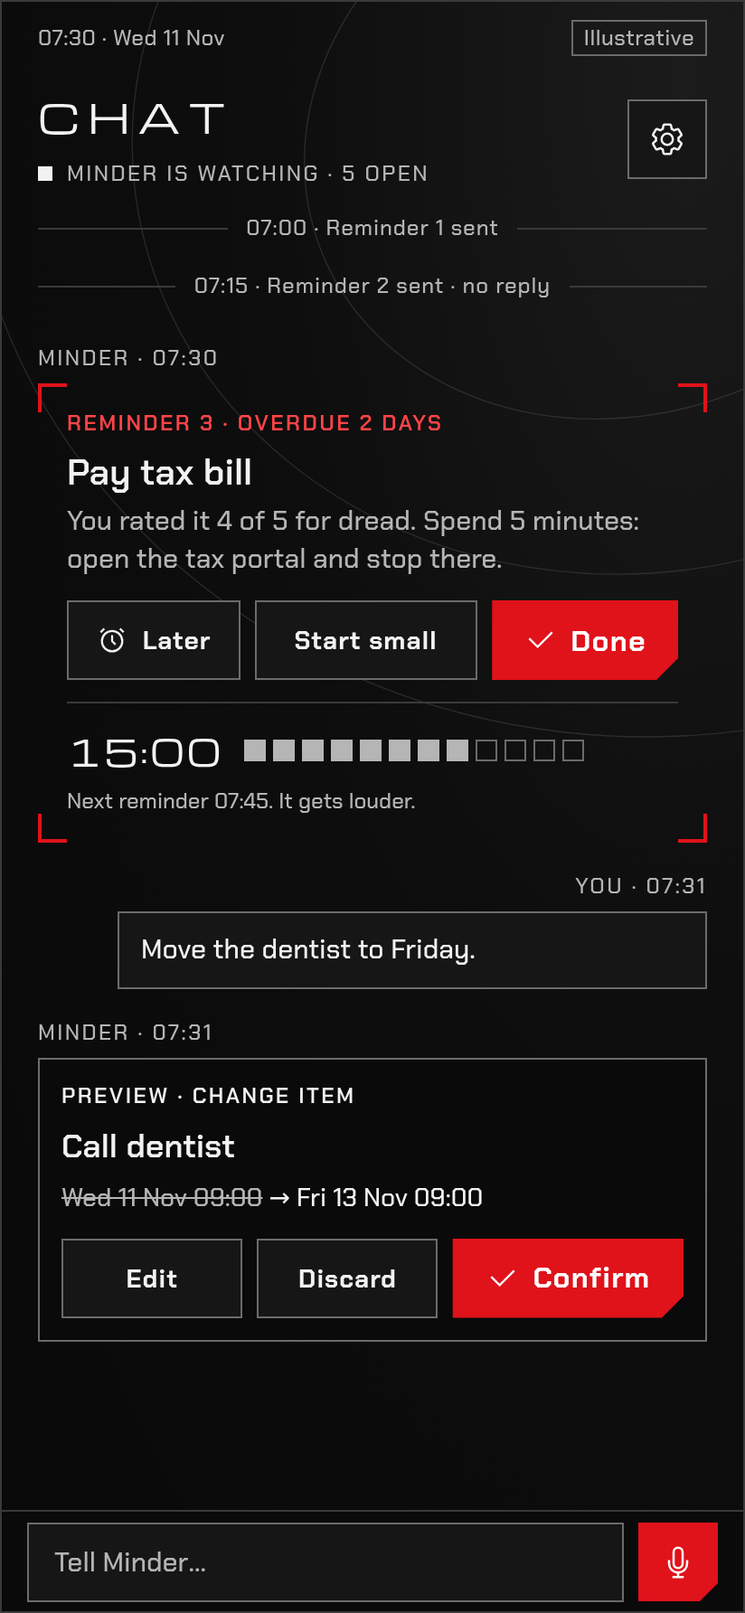
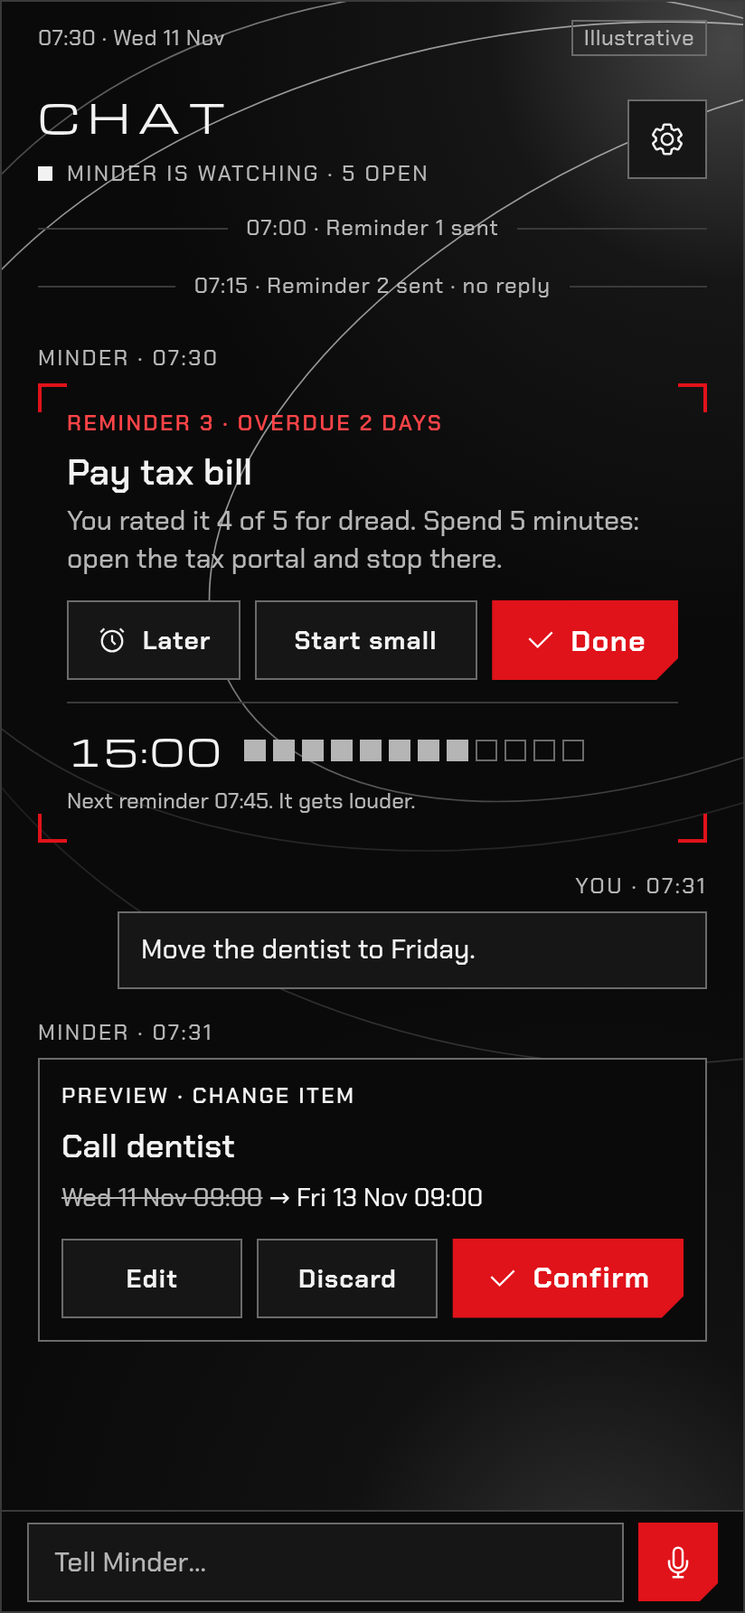
Restore orbital lighting and varied tracks for APK 0.4.1

Changed region(s): [[0.8192, 0.0, 1.0, 0.0925], [0.7282, 0.9249, 0.8799, 0.9557]]

diff --git a/brand/index.html b/brand/index.html
@@ -310,15 +310,13 @@ footer{padding:28px 20px 28px calc(var(--col) + 24px);font-size:12px;letter-spac
 .calendar-example-wrap{max-width:100%;overflow-x:auto;margin-top:24px}
 .calendar-caption{font-size:13px;color:var(--muted);margin:12px 0 0}
 
-
-/* Orbital surfaces: static halo, three slow vector ellipses. */
-.orbit-surface{position:relative;overflow:hidden;background-color:var(--void);background-image:radial-gradient(ellipse at 92% 5%,rgba(242,242,242,.075),rgba(242,242,242,.015) 43%,transparent 90%)}
+/* Orbital surfaces: static edge lighting, independently centred vector ellipses. */
+.orbit-surface{position:relative;overflow:hidden;background-color:var(--void);background-image:radial-gradient(circle at 98% 2.5%,rgba(242,242,242,.26),rgba(242,242,242,.052) 132px,transparent 330px),radial-gradient(circle at 80% 98%,rgba(242,242,242,.16),rgba(242,242,242,.032) 140px,transparent 350px)}
 .orbit-surface > :not(.orbit-lines){position:relative;z-index:1}
-.orbit-surface > .orbit-lines{position:absolute;inset:0;width:100%;height:892px;pointer-events:none;z-index:0;fill:none;stroke:rgba(242,242,242,.12);stroke-width:.7}
-.orbit-lines g{transform-box:view-box;transform-origin:350px 160px;animation:orbit-drift 180s linear infinite}
-.orbit-chat g{transform-origin:350px 71px}
+.orbit-surface > .orbit-lines{position:absolute;inset:0;width:100%;height:892px;pointer-events:none;z-index:0;fill:none;stroke-width:.85}
+.orbit-lines ellipse{transform-box:fill-box;transform-origin:center;animation:orbit-drift 180s linear infinite}
 @keyframes orbit-drift{to{rotate:360deg}}
-@media(prefers-reduced-motion:reduce){.orbit-lines g{animation:none}}
+@media(prefers-reduced-motion:reduce){.orbit-lines ellipse{animation:none}}
 </style>
 </head>
 <body>
@@ -524,8 +522,8 @@ footer{padding:28px 20px 28px calc(var(--col) + 24px);font-size:12px;letter-spac
    <tr><td>32 px</td><td>Major sections: screen header, month navigation and agenda.</td></tr>
   </table></div>
   <h3>Orbital background</h3>
-  <p>Three fine neutral ellipses give each screen its own composition. Calendar uses broad orbits; Chat uses tighter arcs near the header.</p>
-  <p>Keep the halo static and rotate the lines once every 180 seconds. Cards stay opaque. Decoration does not use Signal red.</p>
+  <p>Three neutral ellipses have different centres, sizes and tilts. Edge highlights fade through the middle to keep content clear. Calendar uses broad orbits; Chat uses tighter arcs near the header.</p>
+  <p>Keep the upper-right and lower-edge lighting static. Rotate each ellipse about its own centre once every 180 seconds. Cards stay opaque. Decoration does not use Signal red.</p>
   <p>Pause motion on hidden screens and when the app is in the background. Reduced motion shows a still composition.</p>
   <h3>Calendar</h3>
   <p>Give the month a 24 px heading and the year its own 14 px line. Group the two arrows on the right.</p>
@@ -534,7 +532,7 @@ footer{padding:28px 20px 28px calc(var(--col) + 24px);font-size:12px;letter-spac
   <p>Give agenda cards 20 px padding, an 18 px title and 16 px between cards. Use Line for their outlines.</p>
   <p>Keep the calendar column at most 520 px wide. Use 24 px side gutters from 360 px upward.</p>
   <p>On narrower screens, reduce gutters to preserve 44 px day targets. Let the page scroll with larger text or shorter screens.</p>
-  <div class="calendar-example-wrap"><div class="calendar-layout orbit-surface" aria-label="Calendar spacing example"><svg class="orbit-lines orbit-calendar" viewBox="0 0 412 892" preserveAspectRatio="none" aria-hidden="true"><g><ellipse cx="350" cy="160" rx="309" ry="290" transform="rotate(-20 350 160)"/><ellipse cx="350" cy="160" rx="402" ry="379" transform="rotate(-6.9 350 160)"/><ellipse cx="350" cy="160" rx="494" ry="468" transform="rotate(6.3 350 160)"/></g></svg>
+  <div class="calendar-example-wrap"><div class="calendar-layout orbit-surface" aria-label="Calendar spacing example"><svg class="orbit-lines orbit-calendar" viewBox="0 0 412 892" preserveAspectRatio="none" aria-hidden="true"><defs><linearGradient id="orbit-light-calendar" x1="0" y1="0" x2="0" y2="892" gradientUnits="userSpaceOnUse"><stop offset="0" stop-color="#f2f2f2" stop-opacity=".60"/><stop offset=".28" stop-color="#f2f2f2" stop-opacity=".16"/><stop offset=".60" stop-color="#f2f2f2" stop-opacity=".08"/><stop offset="1" stop-color="#f2f2f2" stop-opacity=".42"/></linearGradient></defs><g stroke="url(#orbit-light-calendar)"><ellipse cx="329.60" cy="178.40" rx="391.40" ry="258.68" transform="rotate(-20.05 329.60 178.40)"/><ellipse cx="259.56" cy="383.56" rx="391.40" ry="374.64" transform="rotate(-6.88 259.56 383.56)"/><ellipse cx="284.28" cy="499.52" rx="412.00" ry="419.24" transform="rotate(6.30 284.28 499.52)"/></g></svg>
  <div class="cal-header"><div class="cal-title">CALENDAR</div><span class="cal-control" aria-label="Chat"><svg viewBox="0 0 24 24" aria-hidden="true"><path d="M4 4h16v13H9l-5 4V4Z"/></svg></span></div>
  <div class="cal-month-bar"><div><div class="cal-month">November</div><div class="cal-year">2026</div></div><div class="cal-arrows"><span class="cal-control" aria-label="Previous month"><svg viewBox="0 0 24 24" aria-hidden="true"><path d="m14 6-6 6 6 6"/></svg></span><span class="cal-control" aria-label="Next month"><svg viewBox="0 0 24 24" aria-hidden="true"><path d="m10 6 6 6-6 6"/></svg></span></div></div>
  <div class="cal-weekdays"><span>MON</span><span>TUE</span><span>WED</span><span>THU</span><span>FRI</span><span>SAT</span><span>SUN</span></div>

diff --git a/app/lib/ui/orbital_background.dart b/app/lib/ui/orbital_background.dart
@@ -1,4 +1,6 @@
 import 'dart:math' as math;
+import 'dart:typed_data';
+import 'dart:ui' as ui;
 
 import 'package:flutter/material.dart';
 
@@ -83,9 +85,7 @@ class _OrbitalBackgroundState extends State<OrbitalBackground>
                 fit: StackFit.expand,
                 children: [
                   RepaintBoundary(
-                    child: CustomPaint(
-                      painter: _HaloPainter(scene: widget.scene),
-                    ),
+                    child: CustomPaint(painter: const _HaloPainter()),
                   ),
                   RepaintBoundary(
                     child: CustomPaint(
@@ -108,29 +108,37 @@ class _OrbitalBackgroundState extends State<OrbitalBackground>
 }
 
 class _HaloPainter extends CustomPainter {
-  const _HaloPainter({required this.scene});
-  final OrbitScene scene;
+  const _HaloPainter();
 
   @override
   void paint(Canvas canvas, Size size) {
     final rect = Offset.zero & size;
-    final halo = RadialGradient(
-      center: scene == OrbitScene.calendar
-          ? const Alignment(.85, -.9)
-          : const Alignment(1, -.7),
-      radius: .95,
-      colors: [
-        Tokens.text.withValues(alpha: .075),
-        Tokens.text.withValues(alpha: .015),
-        Colors.transparent,
-      ],
-      stops: const [0, .45, 1],
-    );
-    canvas.drawRect(rect, Paint()..shader = halo.createShader(rect));
+    final width = math.min(size.width, 760.0);
+    final top = Offset(size.width / 2 + width * .48, size.height * .025);
+    final bottom = Offset(size.width / 2 + width * .30, size.height * .98);
+    for (final light in [
+      (center: top, radius: width * .80, alpha: .26),
+      (center: bottom, radius: width * .85, alpha: .16),
+    ]) {
+      canvas.drawRect(
+        rect,
+        Paint()
+          ..shader = ui.Gradient.radial(
+            light.center,
+            light.radius,
+            [
+              Tokens.text.withValues(alpha: light.alpha),
+              Tokens.text.withValues(alpha: light.alpha * .20),
+              Colors.transparent,
+            ],
+            [0, .4, 1],
+          ),
+      );
+    }
   }
 
   @override
-  bool shouldRepaint(_HaloPainter oldDelegate) => oldDelegate.scene != scene;
+  bool shouldRepaint(_HaloPainter oldDelegate) => false;
 }
 
 class _OrbitPainter extends CustomPainter {
@@ -143,27 +151,67 @@ class _OrbitPainter extends CustomPainter {
   void paint(Canvas canvas, Size size) {
     final calendar = scene == OrbitScene.calendar;
     final width = math.min(size.width, 760.0);
-    final center = Offset(
-      size.width / 2 + width * .35,
-      size.height * (calendar ? .18 : .08),
-    );
+    final orbits = calendar
+        ? const [
+            (x: .80, y: .20, width: 1.9, height: .58, tilt: -.35),
+            (x: .63, y: .43, width: 1.9, height: .84, tilt: -.12),
+            (x: .69, y: .56, width: 2.0, height: .94, tilt: .11),
+          ]
+        : const [
+            (x: .95, y: .07, width: 1.5, height: .38, tilt: -.45),
+            (x: .80, y: .20, width: 1.8, height: .50, tilt: -.18),
+            (x: .62, y: .37, width: 1.9, height: .66, tilt: .18),
+          ];
     final paint = Paint()
       ..style = PaintingStyle.stroke
-      ..strokeWidth = .7
-      ..color = Tokens.text.withValues(alpha: .12);
-    for (var i = 0; i < 3; i++) {
-      canvas.save();
-      canvas.translate(center.dx, center.dy);
-      canvas.rotate(-.35 + i * .23 + motion.value * math.pi * 2);
-      canvas.drawOval(
-        Rect.fromCenter(
-          center: Offset.zero,
-          width: width * ((calendar ? 1.5 : .9) + i * .45),
-          height: size.height * ((calendar ? .65 : .35) + i * .2),
+      ..strokeWidth = .85
+      ..shader = LinearGradient(
+        begin: Alignment.topCenter,
+        end: Alignment.bottomCenter,
+        colors: [
+          Tokens.text.withValues(alpha: .60),
+          Tokens.text.withValues(alpha: .16),
+          Tokens.text.withValues(alpha: .08),
+          Tokens.text.withValues(alpha: .42),
+        ],
+        stops: const [0, .28, .60, 1],
+      ).createShader(Offset.zero & size);
+    for (final orbit in orbits) {
+      final angle = orbit.tilt + motion.value * math.pi * 2;
+      final cos = math.cos(angle);
+      final sin = math.sin(angle);
+      final centerX = size.width / 2 + width * (orbit.x - .5);
+      final path = Path()
+        ..addOval(
+          Rect.fromCenter(
+            center: Offset.zero,
+            width: width * orbit.width,
+            height: size.height * orbit.height,
+          ),
+        );
+      canvas.drawPath(
+        path.transform(
+          Float64List.fromList([
+            cos,
+            sin,
+            0,
+            0,
+            -sin,
+            cos,
+            0,
+            0,
+            0,
+            0,
+            1,
+            0,
+            centerX,
+            size.height * orbit.y,
+            0,
+            1,
+          ]),
         ),
         paint,
       );
-      canvas.restore();
     }
   }
 

diff --git a/docs/mockups/calendar.html b/docs/mockups/calendar.html
@@ -1,7 +1,7 @@
 <!doctype html>
 <html lang="en"><head><meta charset="utf-8"><meta name="viewport" content="width=device-width,initial-scale=1"><title>Minder · Calendar</title><link rel="stylesheet" href="common.css"></head>
 <body><div class="page"><div><div style="padding:8px 0"><span class="demo">Illustrative</span></div>
-<div class="calendar-layout orbit-surface" aria-label="Calendar spacing example"><svg class="orbit-lines orbit-calendar" viewBox="0 0 412 892" preserveAspectRatio="none" aria-hidden="true"><g><ellipse cx="350" cy="160" rx="309" ry="290" transform="rotate(-20 350 160)"/><ellipse cx="350" cy="160" rx="402" ry="379" transform="rotate(-6.9 350 160)"/><ellipse cx="350" cy="160" rx="494" ry="468" transform="rotate(6.3 350 160)"/></g></svg>
+<div class="calendar-layout orbit-surface" aria-label="Calendar spacing example"><svg class="orbit-lines orbit-calendar" viewBox="0 0 412 892" preserveAspectRatio="none" aria-hidden="true"><defs><linearGradient id="orbit-light-calendar" x1="0" y1="0" x2="0" y2="892" gradientUnits="userSpaceOnUse"><stop offset="0" stop-color="#f2f2f2" stop-opacity=".60"/><stop offset=".28" stop-color="#f2f2f2" stop-opacity=".16"/><stop offset=".60" stop-color="#f2f2f2" stop-opacity=".08"/><stop offset="1" stop-color="#f2f2f2" stop-opacity=".42"/></linearGradient></defs><g stroke="url(#orbit-light-calendar)"><ellipse cx="329.60" cy="178.40" rx="391.40" ry="258.68" transform="rotate(-20.05 329.60 178.40)"/><ellipse cx="259.56" cy="383.56" rx="391.40" ry="374.64" transform="rotate(-6.88 259.56 383.56)"/><ellipse cx="284.28" cy="499.52" rx="412.00" ry="419.24" transform="rotate(6.30 284.28 499.52)"/></g></svg>
  <div class="cal-header"><div class="cal-title">CALENDAR</div><span class="cal-control" aria-label="Chat"><svg viewBox="0 0 24 24" aria-hidden="true"><path d="M4 4h16v13H9l-5 4V4Z"/></svg></span></div>
  <div class="cal-month-bar"><div><div class="cal-month">November</div><div class="cal-year">2026</div></div><div class="cal-arrows"><span class="cal-control" aria-label="Previous month"><svg viewBox="0 0 24 24" aria-hidden="true"><path d="m14 6-6 6 6 6"/></svg></span><span class="cal-control" aria-label="Next month"><svg viewBox="0 0 24 24" aria-hidden="true"><path d="m10 6 6 6-6 6"/></svg></span></div></div>
  <div class="cal-weekdays"><span>MON</span><span>TUE</span><span>WED</span><span>THU</span><span>FRI</span><span>SAT</span><span>SUN</span></div>

diff --git a/docs/mockups/chat.html b/docs/mockups/chat.html
@@ -13,7 +13,7 @@
 .live{display:flex;align-items:center;gap:8px;font-size:12px;letter-spacing:.1em;text-transform:uppercase;color:var(--muted)}
 .live u{width:8px;height:8px;background:var(--text);display:block}
 </style></head><body><div class="page">
-<div class="ph orbit-surface"><svg class="orbit-lines orbit-chat" viewBox="0 0 412 892" preserveAspectRatio="none" aria-hidden="true"><g><ellipse cx="350" cy="71" rx="185" ry="156" transform="rotate(-20 350 71)"/><ellipse cx="350" cy="71" rx="278" ry="245" transform="rotate(-6.9 350 71)"/><ellipse cx="350" cy="71" rx="371" ry="335" transform="rotate(6.3 350 71)"/></g></svg><div class="st"><span>07:30 · Wed 11 Nov</span><span class="demo">Illustrative</span></div>
+<div class="ph orbit-surface"><svg class="orbit-lines orbit-chat" viewBox="0 0 412 892" preserveAspectRatio="none" aria-hidden="true"><defs><linearGradient id="orbit-light-chat" x1="0" y1="0" x2="0" y2="892" gradientUnits="userSpaceOnUse"><stop offset="0" stop-color="#f2f2f2" stop-opacity=".60"/><stop offset=".28" stop-color="#f2f2f2" stop-opacity=".16"/><stop offset=".60" stop-color="#f2f2f2" stop-opacity=".08"/><stop offset="1" stop-color="#f2f2f2" stop-opacity=".42"/></linearGradient></defs><g stroke="url(#orbit-light-chat)"><ellipse cx="391.40" cy="62.44" rx="309.00" ry="169.48" transform="rotate(-25.78 391.40 62.44)"/><ellipse cx="329.60" cy="178.40" rx="370.80" ry="223.00" transform="rotate(-10.31 329.60 178.40)"/><ellipse cx="255.44" cy="330.04" rx="391.40" ry="294.36" transform="rotate(10.31 255.44 330.04)"/></g></svg><div class="st"><span>07:30 · Wed 11 Nov</span><span class="demo">Illustrative</span></div>
 <div class="body">
 <div class="hd"><div><div class="ttl">Chat</div><div class="live" style="margin-top:8px"><u></u>Minder is watching · 5 open</div></div><div class="ibtn"><i class="cb i-gear"></i></div></div>
 <div class="ev" style="margin-top:6px"><span>07:00 · Reminder 1 sent</span></div>

diff --git a/docs/mockups/common.css b/docs/mockups/common.css
@@ -194,11 +194,10 @@ html,body{margin:0;background:#000}
 .calendar-example-wrap{max-width:100%;overflow-x:auto;margin-top:24px}
 .calendar-caption{font-size:13px;color:var(--muted);margin:12px 0 0}
 
-/* Orbital surfaces: static halo, three slow vector ellipses. */
-.orbit-surface{position:relative;overflow:hidden;background-color:var(--void);background-image:radial-gradient(ellipse at 92% 5%,rgba(242,242,242,.075),rgba(242,242,242,.015) 43%,transparent 90%)}
+/* Orbital surfaces: static edge lighting, independently centred vector ellipses. */
+.orbit-surface{position:relative;overflow:hidden;background-color:var(--void);background-image:radial-gradient(circle at 98% 2.5%,rgba(242,242,242,.26),rgba(242,242,242,.052) 132px,transparent 330px),radial-gradient(circle at 80% 98%,rgba(242,242,242,.16),rgba(242,242,242,.032) 140px,transparent 350px)}
 .orbit-surface > :not(.orbit-lines){position:relative;z-index:1}
-.orbit-surface > .orbit-lines{position:absolute;inset:0;width:100%;height:892px;pointer-events:none;z-index:0;fill:none;stroke:rgba(242,242,242,.12);stroke-width:.7}
-.orbit-lines g{transform-box:view-box;transform-origin:350px 160px;animation:orbit-drift 180s linear infinite}
-.orbit-chat g{transform-origin:350px 71px}
+.orbit-surface > .orbit-lines{position:absolute;inset:0;width:100%;height:892px;pointer-events:none;z-index:0;fill:none;stroke-width:.85}
+.orbit-lines ellipse{transform-box:fill-box;transform-origin:center;animation:orbit-drift 180s linear infinite}
 @keyframes orbit-drift{to{rotate:360deg}}
-@media(prefers-reduced-motion:reduce){.orbit-lines g{animation:none}}
+@media(prefers-reduced-motion:reduce){.orbit-lines ellipse{animation:none}}

diff --git a/docs/evidence/orbital-refinement.md b/docs/evidence/orbital-refinement.md
@@ -1,0 +1,49 @@
+# Orbital visual refinement
+
+Date: 2026-11-12. Branch: `m0-chat`. Starting commit: `5ad57f3`.
+
+The owner asked to fix the visual gap identified in the comparison with the generated Orbital concept.
+This refinement restores upper-right and lower-edge lighting, brighter arc highlights,
+and separate orbit centres, sizes and tilts. Chat and Calendar retain distinct compositions.
+Highlights fade through the middle to preserve text contrast. Cards remain opaque.
+
+The shared painter retains three vector ellipses and a 180-second rotation.
+Static lighting and foreground remain isolated from animation repaints.
+No bitmap assets, blur filters, packages, application/controller changes or Go changes were added.
+
+## Verification
+
+| Check | Observed result |
+|---|---|
+| `toolchain/check` | Passed, exit 0: 39 Flutter tests, analysis/format, Go race/vet/format, hooks, architecture and DOX |
+| Animation/lifecycle regression tests | Passed: movement without foreground rebuilds, distinct scenes, reduced motion, route hiding and app background/resume |
+| Calendar and Chat goldens | Reviewed against the generated concept and updated |
+| Release web build | Passed, exit 0 |
+| `toolchain/calendar-local-check` | Passed: item placement and back navigation |
+| `toolchain/reminder-local-check` | Passed: reminder card and Done action |
+| `toolchain/local-check` with fixture | Passed: chat operations, offline retry and SQLite persistence at phone/desktop sizes |
+| Brand guide and mockups | Rendered at 1280/390 px without document overflow or page errors; all mockups re-rendered at 2× with reduced motion |
+| Shared guide/mockup CSS | Exact calendar/orbital style match |
+| `toolchain/dox-check` and `git diff --check` | Passed |
+
+[Compiled Calendar](local-calendar.png) and [compiled Chat](local-flow.png) show the implemented treatment.
+The foundation and brand guide record the updated geometry and lighting rules.
+Existing parent ownership and child indexes remain valid; UI/brand contracts describe the new treatment.
+The older [0.4.0 evidence](orbital-backgrounds.md) records the superseded subtle treatment.
+
+Phone frame timing and battery use remain unmeasured. Phone approval still gates merging.
+This work does not push, merge or deploy the hosted app.
+
+## APK 0.4.1
+
+Release arm64 build passed, exit 0. APK signature verification passed and the certificate
+matches 0.4.0. Application ID is `io.liveleds.minder`; split version code is `2010`.
+Build uses the production API/auth defaults and the existing cached signing key.
+
+Artifact: ignored `.local/artifacts/Minder-0.4.1-arm64.apk`, 18,597,574 bytes.
[1 lines of base64/hex data omitted]
+
+Builds retain the existing SDK Cupertino font and authentication plugin KGP migration warnings.
+Neither failed verification or the release builds.
+
+Telegram confirmed document delivery through the existing bot and configured chat.

diff --git a/HANDOFF.md b/HANDOFF.md
@@ -51,14 +51,15 @@ Evidence: [docs/evidence/calendar-spacing.md](docs/evidence/calendar-spacing.md)
 ## Orbital backgrounds
 
 The owner chose Orbital and approved animated backgrounds for Chat and Calendar, plus APK delivery.
-`OrbitalBackground` paints three ellipses over a static halo. Each screen has its own composition.
+`OrbitalBackground` paints three ellipses with separate centres, sizes and tilts. Each screen has its own composition.
+Static light anchors the upper-right and lower edge; highlights fade through the middle.
 The arcs rotate over 180 seconds. Halo and foreground are isolated from animation repaints.
 Reduced motion keeps the scene still. Hidden routes and backgrounded apps stop ticking.
 Tests verify movement, lifecycle pauses, distinct scenes and stable foreground builds.
 Brand guide, foundation, mockups and goldens follow the approved direction.
 Phone frame timing and battery use remain unmeasured.
-Compared with the generated concept, this implementation has much dimmer arcs and less lighting depth.
-Stronger lighting and varied orbit centres are recommended refinements, outside this APK.
+The owner requested a closer match to the generated concept. The refinement restores brighter arcs, varied centres and upper/lower lighting.
+The calendar spacing and opaque cards remain unchanged.
 
 ## Deployment and APK status
 
@@ -66,10 +67,11 @@ The prior handoff records production commit `1c0efe9`, with calendar fields and 
 This review did not check the live deployment or deploy changes.
 The spacing and architecture changes remain local to `m0-chat`.
 
-APK 0.4.0 with orbital backgrounds was sent through the existing Telegram bot and chat.
-Telegram confirmed document delivery. Phone approval remains pending.
+APK 0.4.1 restores the brighter Orbital treatment and supersedes the 0.4.0 preview.
+Telegram confirmed delivery through the existing bot and chat. The release arm64 APK and signature checks passed.
+Phone approval remains pending.
 The release arm64 APK built successfully and its signing certificate matches the prior APK.
-Evidence: [docs/evidence/orbital-backgrounds.md](docs/evidence/orbital-backgrounds.md).
+Evidence: [docs/evidence/orbital-refinement.md](docs/evidence/orbital-refinement.md).
 
 The Coolify app is `ciw3jk5gkgiql8kfdomeyys2`.
 A Git push does not deploy. Deployment needs an explicit POST to `/deploy`.

diff --git a/brand/AGENTS.md b/brand/AGENTS.md
@@ -13,7 +13,7 @@ This `brand/` folder owns `index.html`, `app-icon.svg` and its PNG preview. The 
 - Signal red has five uses: focus frame, overdue or urgent state, primary action, selected or active state, live recording. Everything else is neutral. No text is below 12 px. Every control has a 44 × 44 px hit area. `--edge` is for outlines only, never text.
 - The Components section mirrors the component rules of `docs/mockups/common.css`; change both in the same edit.
 - The calendar example defines 8/16/24/32 px spacing, grouped month arrows, an inset selection frame and a scrolling agenda. Keep it aligned with Flutter and the shared mockup styles.
-- Orbital surfaces use a static neutral halo and three ellipses rotating over 180 seconds. Calendar and Chat use distinct compositions. Honour reduced motion.
+- Orbital surfaces use a static upper/lower edge lighting and three independently centred ellipses rotating over 180 seconds. Calendar and Chat use distinct compositions. Honour reduced motion.
 - Items not yet verified carry "to check" or "Design pending".
 - Fonts load from Google Fonts. Icons load from jsDelivr (@carbon/icons, pinned version). The primary logo is the word Minder. App launchers and OAuth consent use the M badge in `app-icon.svg`.
 

diff --git a/docs/foundation.md b/docs/foundation.md
@@ -85,10 +85,11 @@ The calendar follows the Layout section of the brand guide.
 
 ## Orbital background
 
-- Three thin neutral ellipses sit behind the content, over a static white halo on Void.
+- Three neutral ellipses with different centres, sizes and tilts sit behind the content. Static lighting anchors the upper-right and lower edge.
 - Calendar uses broad, offset ellipses. Chat uses tighter arcs near the upper-right header.
-- Lines use Text at 12% opacity, with a 0.7 px stroke. The halo peaks at 7.5% opacity.
-- Rotate the ellipses over 180 seconds. The static halo and foreground have separate repaint boundaries.
+- Lines use a 0.85 px stroke. Text-colour highlights fade from 60% at the top through 16% and 8% in the middle to 42% at the bottom.
+- Static lighting peaks at 26% in the upper-right and 16% at the lower edge. Keep cards opaque.
+- Rotate each ellipse around its own centre over 180 seconds. The static halo and foreground have separate repaint boundaries.
 - Reduced motion keeps the composition still. Hidden routes and backgrounded apps stop animation.
 - Cards stay opaque. Background decoration does not intercept taps or add screen-reader content.
 

diff --git a/AGENTS.md b/AGENTS.md
@@ -89,7 +89,7 @@ Source: https://github.com/agent0ai/dox. License: [docs/dox-license.txt](docs/do
 - Current work runs inline without sub-agents. Use the existing `Minder-m0-chat` worktree on `m0-chat`.
 - Outside inline execution, delegated workers use Sonnet 5 or 5.5 unless the owner names another model.
 - Preserve unrelated edits. Do not reset, clean, discard work, merge or publish without authorization.
-- Phone approval gates merging to `main`. The owner authorized APK 0.4.0 with animated orbital backgrounds and Telegram delivery.
+- Phone approval gates merging to `main`. The owner authorized orbital preview APK builds and Telegram delivery.
 - Authorized APK delivery uses the existing Telegram bot and chat. Application ID: `io.liveleds.minder`.
 - Do not change global agent settings during project work.
 

diff --git a/app/lib/ui/AGENTS.md b/app/lib/ui/AGENTS.md
@@ -15,7 +15,8 @@ CalendarTokens owns calendar dimensions. The calendar uses a centered, scrolling
 Day targets stay at least 44 px wide; row height expands for enlarged text. Calendar goldens change only with an approved design.
 
 OrbitalBackground owns decorative painting and animation lifecycle. Use distinct OrbitScene values for chat and calendar.
-Keep halo and foreground isolated from animated arc repaints. Stop motion for reduced motion, hidden routes and backgrounded apps.
+Each ellipse has its own centre, size and tilt; edge highlights fade through the middle.
+Keep static edge lighting and foreground isolated from animated arc repaints. Stop motion for reduced motion, hidden routes and backgrounded apps.
 
 # Work Guidance
 

diff --git a/toolchain/AGENTS.md b/toolchain/AGENTS.md
@@ -26,7 +26,7 @@ Pinned Podman runners, build helpers and verification scripts.
 # Work Guidance
 
 Use standard-library Python and existing pinned tools. Keep checks reproducible and errors specific.
-The owner authorized APK 0.4.0 and Telegram delivery. Preserve the cached signing key. Do not change emulator or hosted services during local checks.
+The owner authorized orbital preview APK builds and Telegram delivery. Preserve the cached signing key. Do not change emulator or hosted services during local checks.
 
 # Verification
 
